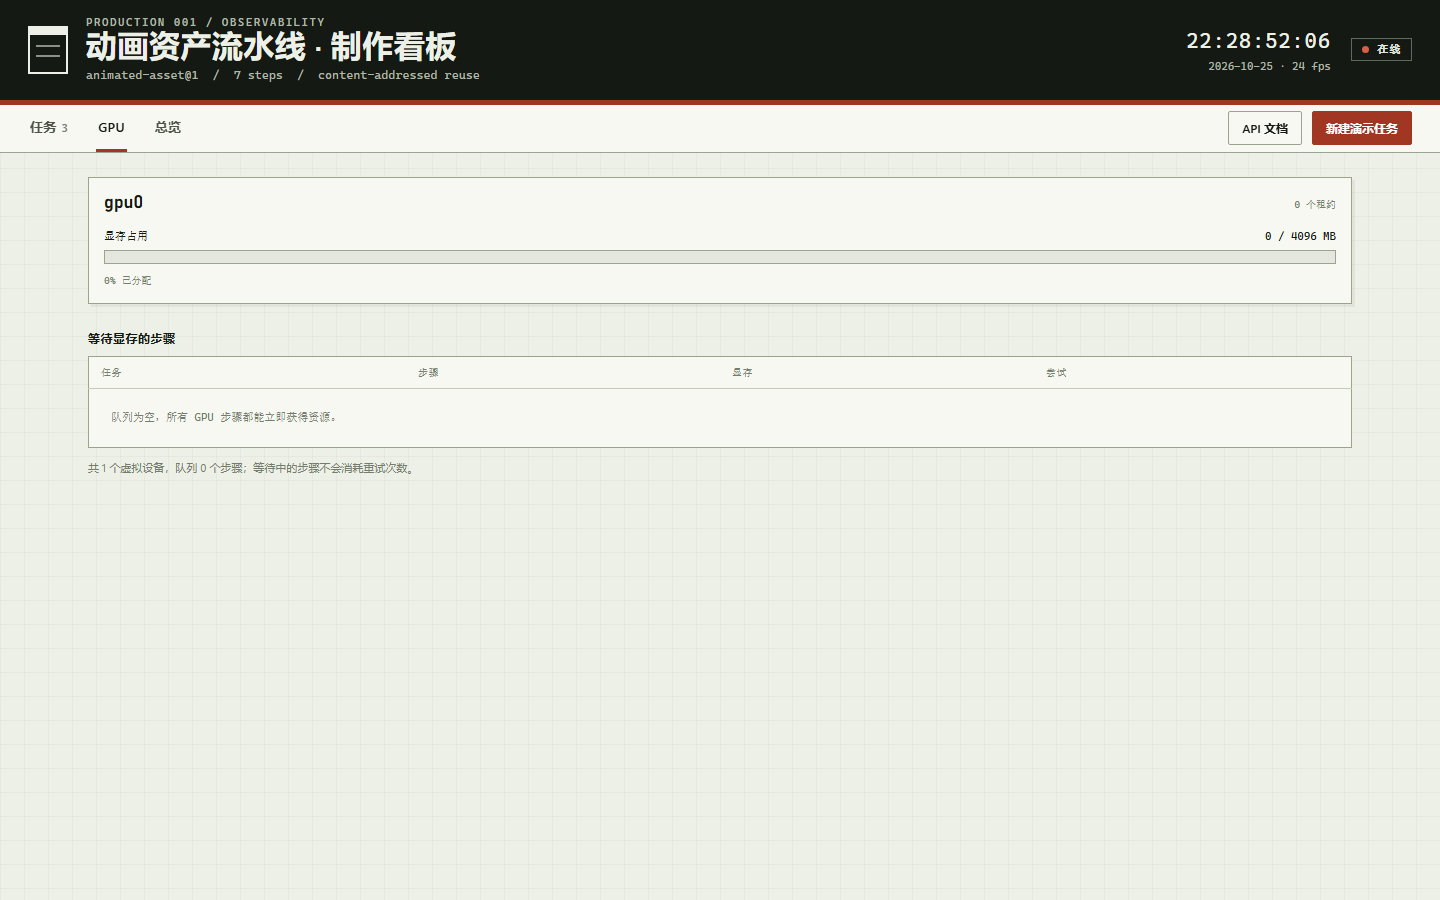
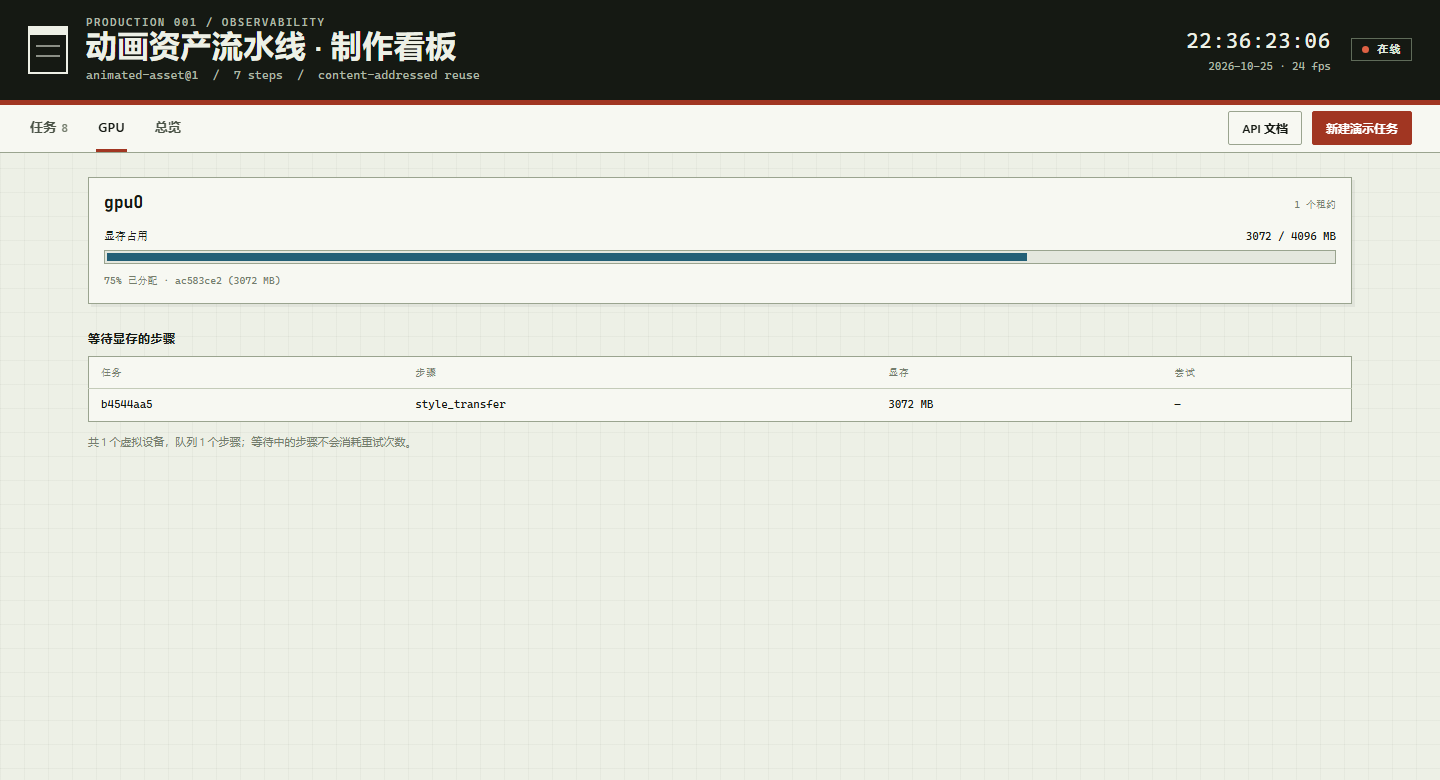
docs: add GPU queue screenshot and final verification notes

Changed region(s): [[0.0, 0.0, 1.0, 0.5846], [0.625, 0.4923, 0.6562, 0.5231]]

diff --git a/README.md b/README.md
@@ -93,6 +93,10 @@ python scripts/demo.py cache
 
 ![任务详情](docs/images/task-detail.png)
 
+GPU 面板在单卡 4 GB 配置下显示租约占用与 `WAITING_RESOURCE` 队列：
+
+![GPU 队列](docs/images/gpu.png)
+
 ## 3. 架构
 
 ```mermaid
@@ -389,6 +393,7 @@ docs/
 - Dashboard 在 1440×1000 与 504×1700 视口截图检查；覆盖任务列表、失败详情、GPU、总览、移动端详情。
 - CP1：执行内核（正常、瞬时重试、致命失败、跨任务复用）。
 - CP2：API、SSE、回调、Dashboard、容器化文件与端到端演示。
+- 手动验证：FAILED 任务经 `POST /retry` 后重新执行失败步骤并成功；callback outbox 实际 POST 到本地接收端，带 `Idempotency-Key`，事件流出现 `callback.sent`。
 - Docker / docker-compose 文件已提供，但本机未安装 Docker，未做容器内实跑；本地 venv 运行与 7 个演示场景均已验证。
 
 ## 17. 设计文档
